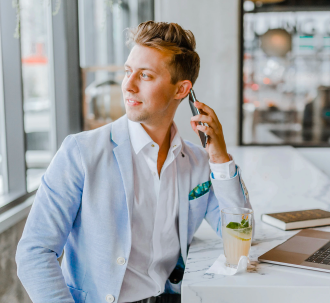
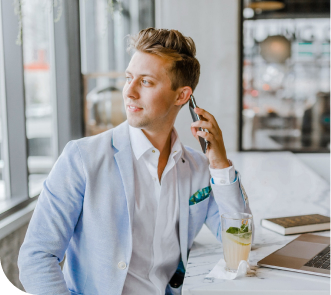
upd

diff --git a/hw9/lawliet-app/src/app/pages/home-page/home-page.component.css b/hw9/lawliet-app/src/app/pages/home-page/home-page.component.css
@@ -1,11 +1,6 @@
 .main {
   width: 100%;
   height: 100%;
-  /* width: 1440px; */
-  /* height: 925px; */
-  /* position: absolute;
-  left: 0px; */
-  /* margin-top: 100px; */
   background: linear-gradient(
     330.22deg,
     rgba(221, 231, 247, 0) 25.58%,
@@ -21,19 +16,14 @@
   display: flex;
   flex-direction: column;
   align-content: flex-start;
+  width: 70%;
 }
 .title {
-  /* position: absolute; */
-  /* width: 891px; */
   width: 50%;
   height: 40%;
-  /* height: 216px; */
-  /* left: 165px;
-  top: 246px; */
   font-family: "Playfair Display";
   font-style: normal;
   font-weight: 700;
-  /* font-size: 90px; */
   font-size: 4em;
   margin: 0 150px;
   line-height: 120%;
@@ -64,9 +54,8 @@
   border-radius: 8px;
   cursor: pointer;
 }
-.pic {
-  width: 549px;
-  height: 973.94px;
-
-  /* background: url(creating-a-brand-2mMhaoBGjCs-unsplash-removebg-preview.png); */
+img {
+  width: 100%;
+  height: 100%;
+  object-fit: cover;
 }

diff --git a/hw9/lawliet-app/src/app/pages/home-page/home-page.component.html b/hw9/lawliet-app/src/app/pages/home-page/home-page.component.html
@@ -8,8 +8,8 @@
       </h3>
     </div>
     <div class="button">
-        <button>GET STARTED</button>
+      <button>GET STARTED</button>
     </div>
   </div>
-  <div class="pic"></div>
+  <div class="pic"><img src="../assets/home_pic.jpg" alt="home_pic" /></div>
 </div>

diff --git a/hw9/lawliet-app/src/app/pages/questions-page/questions-page.component.css b/hw9/lawliet-app/src/app/pages/questions-page/questions-page.component.css
@@ -55,8 +55,7 @@ button {
 .btn img {
   padding-right: 15px;
 }
-.img img {
+.img {
   padding-right: 93px;
   padding-left: 45px;
-  border-radius: 0px 0px 0px 40px;
 }
